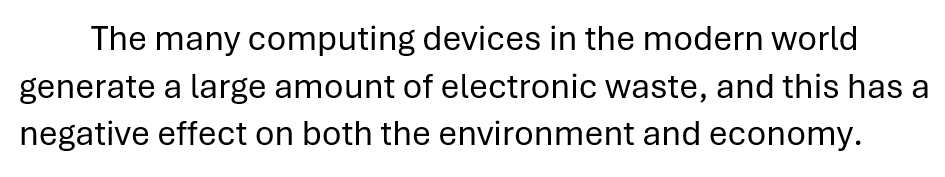
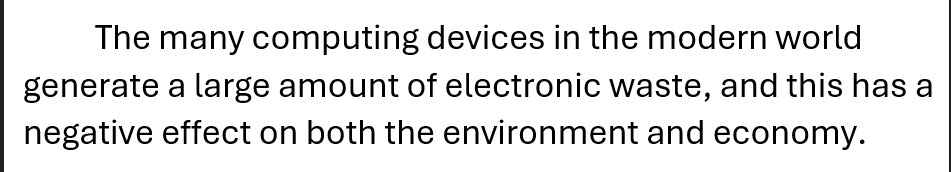
Add files via upload

Changed region(s): [[0.0, 0.0, 1.0, 1.0], [0.0921, 0.1453, 0.6751, 0.3198], [0.6751, 0.1453, 0.9206, 0.2907]]

diff --git a/index.html b/index.html
@@ -5,6 +5,14 @@
     <body>
       <h1>Xin Lin </h1>
       <h2>Some words</h2>
+      <section class="assignment">
+        <img src ="images/problem-statement.png">
+        <p>The many computing devices in the modern world generate
+          a large amount of electronic waste and this has a large impact
+          on both the environment and the economy.
+        </p>
+      </section>
+
     </body>
   </head>
 </html>
